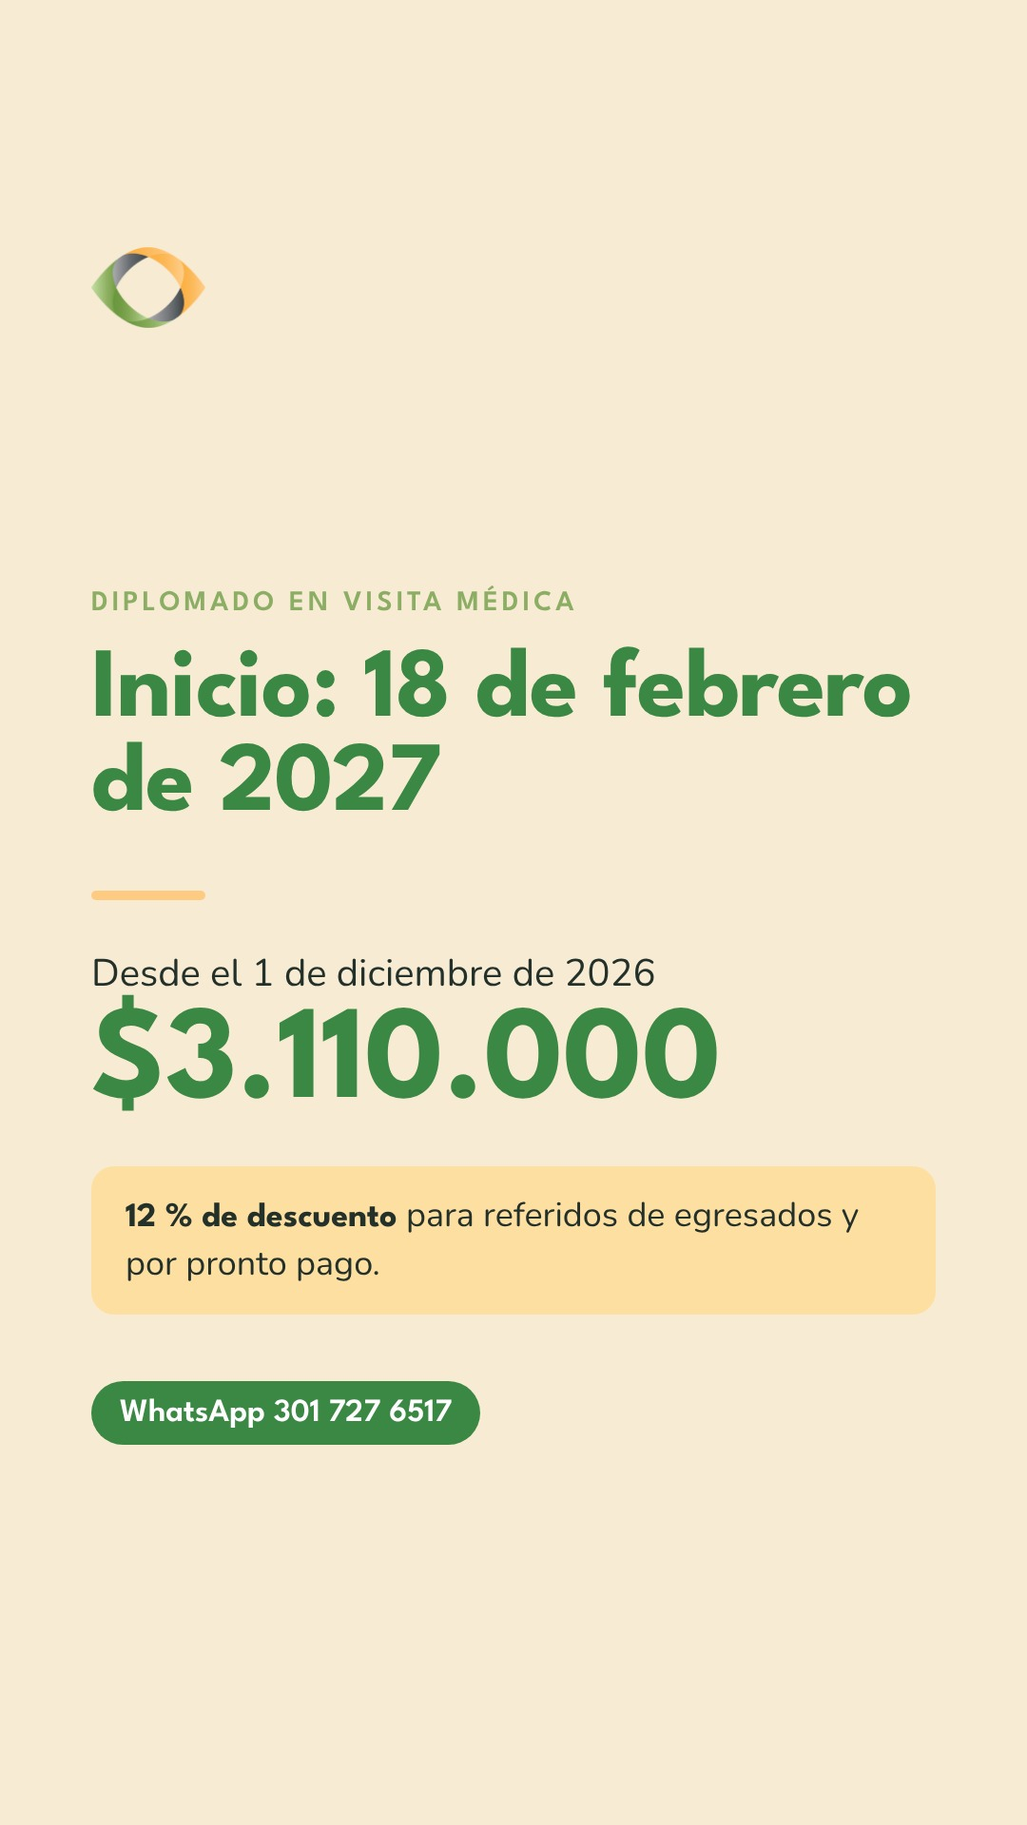
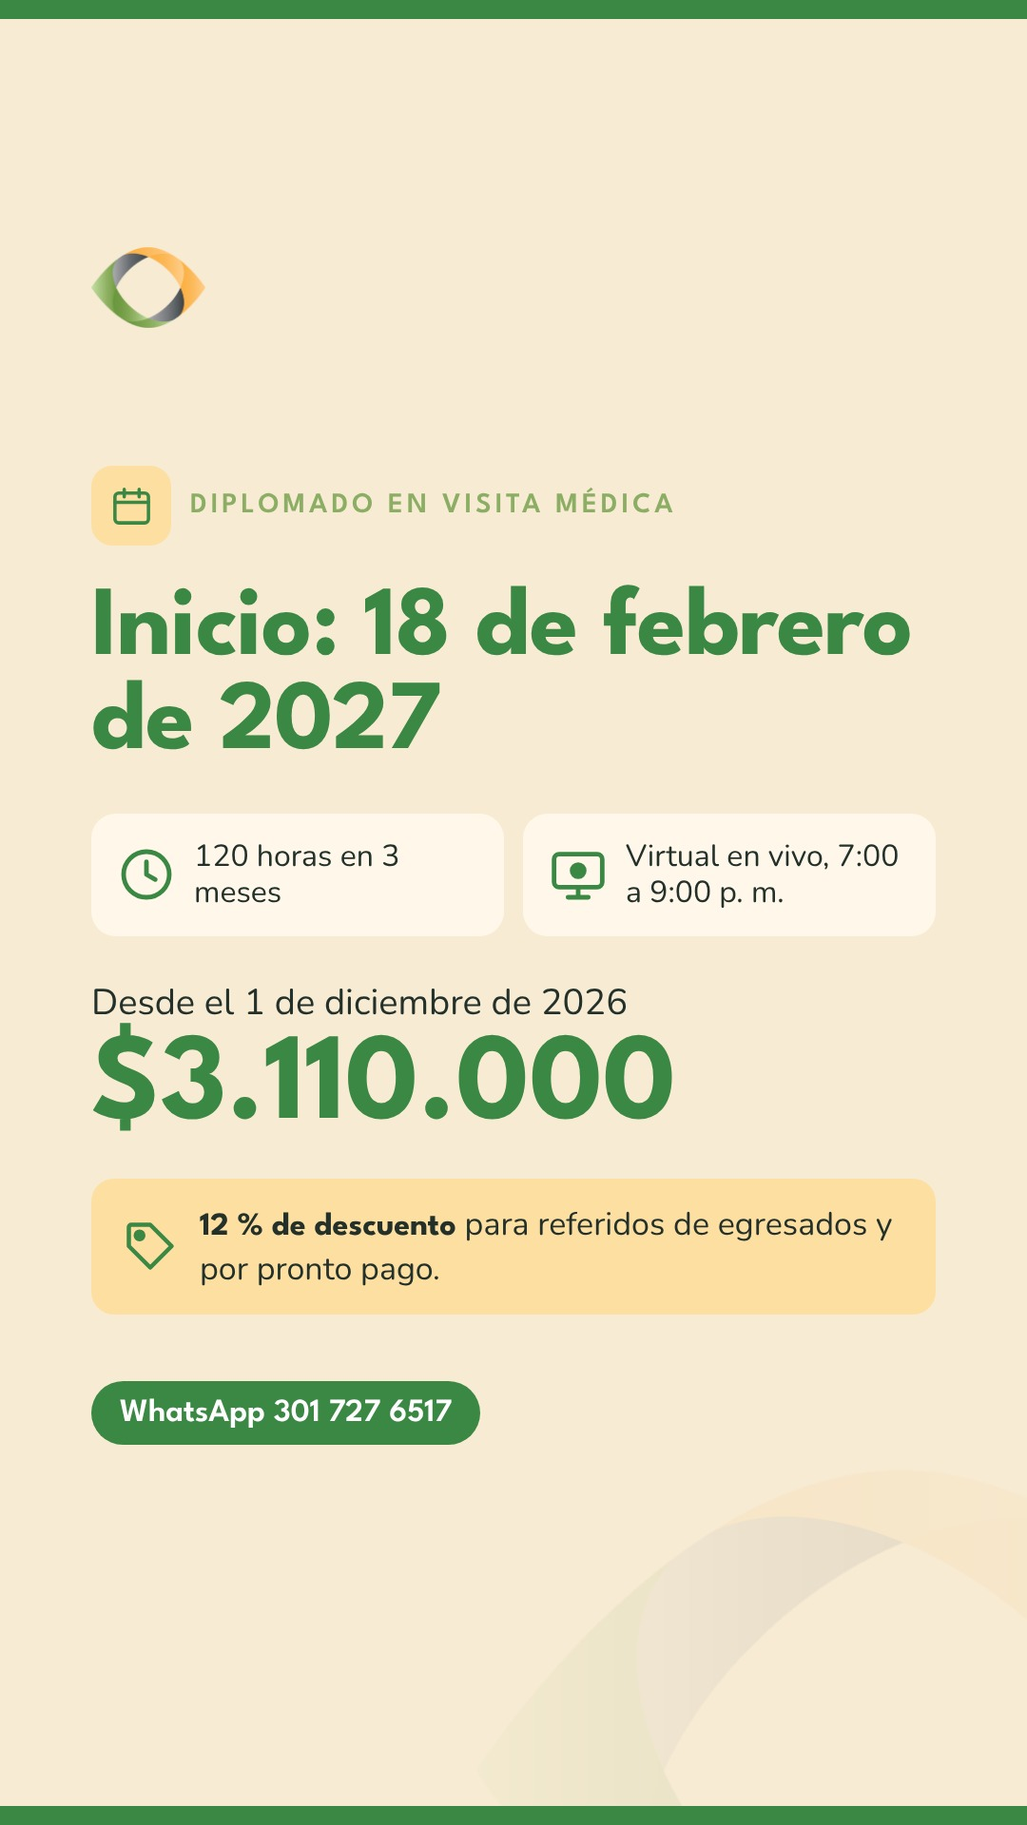
Contraining semana 9: piezas con elementos visuales (íconos, sellos, calendario, barras de precio, marca de agua)
Claude-Session: https://claude.ai/code/session_01BK2hEQrYkRfJt5B3NqMApk

diff --git a/kit/gen_s9_contraining.py b/kit/gen_s9_contraining.py
@@ -75,89 +75,110 @@ pieces["L23"] = info("¿Le sobra plata<br>al final del mes?", "Bienestar financi
     "Joaquín Piña · IP360", "#D4AF37", tsize=80)
 
 # ---------- @contrainingfarma publicaciones (ajuste: las dos del ciclo son de laboratorios) ----------
+# Versión con elementos visuales (íconos, sellos, marca de agua, calendario): kit/visual_ct.py
+from visual_ct import icono, sello, tarjeta, marca_agua, circulo, franja, calendario, precios
+
 # P14 · Laboratorios: outsourcing de fuerzas de ventas · jueves 26, 18:00
-pieces["P14_1"] = ct(f"""<div class="pad">{LOGO_H}
-<div style="margin-top:150px" class="kicker">Para laboratorios</div>
-<h1 style="font-size:116px;margin-top:30px">¿Necesitas una fuerza de ventas en campo?</h1>
+pieces["P14_1"] = ct(f"""{marca_agua(820, -260, -240)}{franja(24)}<div class="pad">{LOGO_H}
+<div style="margin-top:120px;display:flex;gap:22px;align-items:center">{sello("maletin", 96)}<div class="kicker">Para laboratorios</div></div>
+<h1 style="font-size:116px;margin-top:40px">¿Necesitas una fuerza de ventas en campo?</h1>
 <div class="bar" style="margin-top:56px"></div>
 <h2 style="font-size:62px;margin-top:40px">Outsourcing de fuerzas de ventas.</h2>
 {FOOT}</div>""", page="1/3")
-pieces["P14_2"] = ct(f"""<div class="pad">{ISO}
-<h1 style="font-size:92px;margin-top:70px">Lo que hacemos por tu laboratorio</h1>
-<ul class="big" style="margin-top:40px">
-<li><b>Reclutamiento</b> de visitadores médicos.</li>
-<li><b>Entrenamiento a la medida</b> de tu fuerza de ventas.</li>
-<li><b>Seguimiento</b> de la fuerza de ventas.</li>
-</ul>{FOOT}</div>""", page="2/3")
-pieces["P14_3"] = ct(f"""<div class="pad">{ISO}
-<div class="n" style="font-size:240px;line-height:.9;margin-top:90px">+30</div>
-<h2 style="font-size:64px;margin-top:20px">fuerzas de ventas administradas</h2>
+pieces["P14_2"] = ct(f"""{franja(24)}<div class="pad">{ISO}
+<h1 style="font-size:88px;margin-top:50px">Lo que hacemos por tu laboratorio</h1>
+<div style="margin-top:30px">
+{tarjeta("lupa", "Reclutamiento", "de visitadores médicos.")}
+{tarjeta("diana", "Entrenamiento a la medida", "de tu fuerza de ventas.")}
+{tarjeta("grafica", "Seguimiento", "de la fuerza de ventas.")}
+</div>{FOOT}</div>""", page="2/3")
+pieces["P14_3"] = ct(f"""{circulo(560, 150, 330, "var(--peach)")}{marca_agua(700, -240, -220)}<div class="pad">{ISO}
+<div style="margin-top:110px;display:flex;align-items:center;gap:30px">{sello("equipo", 170, "var(--sea)", "#fff")}
+<div class="n" style="font-size:240px;line-height:.9">+30</div></div>
+<h2 style="font-size:64px;margin-top:34px">fuerzas de ventas administradas</h2>
 <div class="bar" style="margin-top:56px"></div>
 <p style="margin-top:40px;font-size:40px">Cuéntanos qué necesita tu equipo.</p>
-<div style="margin-top:auto"><span class="chip">WhatsApp 301 727 6517 · contraining.co</span></div>
+<div style="margin-top:auto;display:flex;gap:18px;align-items:center">{icono("chat", 64)}<span class="chip">WhatsApp 301 727 6517 · contraining.co</span></div>
 </div>""", page="3/3")
 
 # P15 · Laboratorios: enlace con profesionales comerciales de alto nivel · martes 1 de diciembre, 18:00
-pieces["P15_1"] = ct(f"""<div class="pad">{LOGO_H}
-<div style="margin-top:150px" class="kicker">Para laboratorios</div>
-<h1 style="font-size:112px;margin-top:30px">¿Buscas un perfil comercial de alto nivel?</h1>
+pieces["P15_1"] = ct(f"""{marca_agua(820, -260, -240)}{franja(24)}<div class="pad">{LOGO_H}
+<div style="margin-top:120px;display:flex;gap:22px;align-items:center">{sello("lupa", 96)}<div class="kicker">Para laboratorios</div></div>
+<h1 style="font-size:112px;margin-top:40px">¿Buscas un perfil comercial de alto nivel?</h1>
 <div class="bar" style="margin-top:56px"></div>
 <h2 style="font-size:58px;margin-top:40px">El cargo no espera. El perfil correcto tampoco.</h2>
 {FOOT}</div>""", page="1/3")
-pieces["P15_2"] = ct(f"""<div class="pad">{ISO}
-<h1 style="font-size:92px;margin-top:70px">Hacemos el enlace</h1>
-<p style="font-size:50px;line-height:1.3;margin-top:40px">entre <b>profesionales comerciales de alto nivel</b> y <b>compañías farmacéuticas</b>.</p>
-<div class="bar" style="margin-top:56px"></div>
-<p style="font-size:42px;line-height:1.35;margin-top:40px">Y si lo que necesitas es un equipo: <b>reclutamiento de visitadores médicos</b>.</p>
+def nodo(nombre, rotulo):
+    return f"""<div style="display:flex;flex-direction:column;align-items:center;width:300px;text-align:center">{sello(nombre, 190, "#FFF8EA")}
+<div style="font-family:LS;font-weight:700;font-size:38px;color:var(--ink);line-height:1.1;margin-top:20px">{rotulo}</div></div>"""
+pieces["P15_2"] = ct(f"""{franja(24)}<div class="pad">{ISO}
+<h1 style="font-size:92px;margin-top:50px">Hacemos el enlace</h1>
+<div style="display:flex;align-items:flex-start;justify-content:space-between;margin-top:60px">
+{nodo("maletin", "Profesionales comerciales de alto nivel")}
+<div style="margin-top:56px">{sello("enlace", 120, "var(--sea)", "#fff")}</div>
+{nodo("equipo", "Compañías farmacéuticas")}</div>
+<div style="margin-top:56px;background:var(--peach);border-radius:26px;padding:28px 34px;display:flex;gap:26px;align-items:center">{icono("lupa", 64)}
+<p style="font-size:38px;line-height:1.3">Y si lo que necesitas es un equipo: <b style="font-family:LS">reclutamiento de visitadores médicos</b>.</p></div>
 {FOOT}</div>""", page="2/3")
-pieces["P15_3"] = ct(f"""<div class="pad">{ISO}
-<div class="n" style="font-size:200px;line-height:.9;margin-top:90px">+27 años</div>
-<h2 style="font-size:58px;margin-top:20px">formando visitadores médicos en Colombia</h2>
-<p style="margin-top:30px;font-size:42px">Más de 3.000 egresados · 158 promociones</p>
-<div class="bar" style="margin-top:50px"></div>
+def dato(valor, rotulo):
+    return f"""<div style="flex:1;background:#FFF8EA;border-radius:28px;padding:34px 30px;border-top:12px solid var(--apr)">
+<div class="n" style="font-size:96px;line-height:.95">{valor}</div><div style="font-family:LS;font-weight:600;font-size:34px;margin-top:12px;line-height:1.1">{rotulo}</div></div>"""
+pieces["P15_3"] = ct(f"""{marca_agua(700, -240, -220)}<div class="pad">{ISO}
+<h2 style="font-size:60px;margin-top:70px">Formando visitadores médicos en Colombia</h2>
+<div style="display:flex;gap:22px;margin-top:44px">{dato("+27", "años")}{dato("+3.000", "egresados")}{dato("158", "promociones")}</div>
+<div class="bar" style="margin-top:56px"></div>
 <p style="margin-top:40px;font-size:40px">Cuéntanos qué perfil buscas.</p>
-<div style="margin-top:auto"><span class="chip">WhatsApp 301 727 6517 · contraining.co</span></div>
+<div style="margin-top:auto;display:flex;gap:18px;align-items:center">{icono("chat", 64)}<span class="chip">WhatsApp 301 727 6517 · contraining.co</span></div>
 </div>""", page="3/3")
 
 # ---------- @contrainingfarma historias (H51 y H54 llevan voz: ver gen_historias_voz_s9.py) ----------
-PRECIOS = """<div class="bar" style="margin-top:50px"></div>
-<div style="margin-top:50px;font-size:40px">Hasta el 30 de noviembre</div>
-<div class="n" style="font-size:140px;line-height:1">$2.753.000</div>
-<div style="margin-top:30px;font-size:40px">Desde el 1 de diciembre: <b>$3.110.000</b></div>"""
-pieces["H50"] = st(f"""<div style="margin-top:auto">
-<div class="kicker">Diplomado en Visita Médica</div>
-<div style="font-family:LS;font-weight:600;font-size:60px;margin-top:30px">Quedan</div>
-<div class="n" style="font-size:300px;line-height:.9">4 días</div>
-<h2 style="font-size:60px;margin-top:20px">con el precio actual.</h2>
-{PRECIOS}
+NOVDIC = {26: "NOV", 1: "DIC"}
+DIAS = [26, 27, 28, 29, 30, 1]
+def kick(nombre, texto):
+    return f'<div style="display:flex;gap:20px;align-items:center">{sello(nombre, 84)}<div class="kicker">{texto}</div></div>'
+def deco():
+    return marca_agua(900, -320, -260, .08) + franja(20) + franja(20, abajo=True)
+
+pieces["H50"] = st(f"""{deco()}<div style="margin-top:auto">
+{kick("calendario", "Diplomado en Visita Médica")}
+<h1 style="font-size:130px;margin-top:40px">Quedan 4 días</h1>
+<h2 style="font-size:56px;margin-top:16px">con el precio actual.</h2>
+{calendario(DIAS, 30, 26, NOVDIC)}
+{precios()}
 {CHIP}</div>{END}""")
-pieces["H52"] = st(f"""<div style="margin-top:auto">
-<div class="kicker">Diplomado en Visita Médica</div>
-<h1 style="font-size:116px;margin-top:30px">¿Quién enseña?</h1>
-<div class="bar" style="margin-top:60px"></div>
-<h2 style="font-size:66px;margin-top:50px">Docentes con experiencia en la industria farmacéutica.</h2>
-<p style="margin-top:40px;font-size:42px">Clases virtuales en vivo. Inicio: 18 de febrero de 2027.</p>
+pieces["H52"] = st(f"""{deco()}<div style="margin-top:auto">
+{kick("docente", "Diplomado en Visita Médica")}
+<h1 style="font-size:116px;margin-top:40px">¿Quién enseña?</h1>
+<div class="bar" style="margin-top:50px"></div>
+<h2 style="font-size:64px;margin-top:40px">Docentes con experiencia en la industria farmacéutica.</h2>
+<div style="display:flex;gap:20px;margin-top:50px">
+<div style="flex:1;background:#FFF8EA;border-radius:26px;padding:28px;display:flex;gap:20px;align-items:center">{icono("pantalla", 70)}<span style="font-size:34px;line-height:1.2">Clases virtuales en vivo</span></div>
+<div style="flex:1;background:#FFF8EA;border-radius:26px;padding:28px;display:flex;gap:20px;align-items:center">{icono("calendario", 70)}<span style="font-size:34px;line-height:1.2">Inicio: 18 de febrero de 2027</span></div></div>
 {CHIP}</div>{END}""")
-pieces["H53"] = st(f"""<div style="margin-top:auto">
-<div class="kicker">Diplomado en Visita Médica</div>
-<h1 style="font-size:120px;margin-top:30px">Mañana es el último día</h1>
-<h2 style="font-size:60px;margin-top:20px">con el precio actual.</h2>
-{PRECIOS}
+pieces["H53"] = st(f"""{deco()}<div style="margin-top:auto">
+{kick("reloj", "Diplomado en Visita Médica")}
+<h1 style="font-size:124px;margin-top:40px">Mañana es el último día</h1>
+<h2 style="font-size:56px;margin-top:16px">con el precio actual.</h2>
+{calendario(DIAS, 30, 29, NOVDIC)}
+{precios()}
 {CHIP}</div>{END}""")
-pieces["H55"] = st(f"""<div style="margin-top:auto">
-<div class="kicker">Para laboratorios</div>
-<h1 style="font-size:104px;margin-top:30px">¿Buscas un perfil comercial de alto nivel?</h1>
-<div class="bar" style="margin-top:60px"></div>
-<h2 style="font-size:60px;margin-top:50px">Enlazamos profesionales comerciales de alto nivel con compañías farmacéuticas.</h2>
+pieces["H55"] = st(f"""{deco()}<div style="margin-top:auto">
+{kick("maletin", "Para laboratorios")}
+<h1 style="font-size:104px;margin-top:40px">¿Buscas un perfil comercial de alto nivel?</h1>
+<div style="display:flex;align-items:center;gap:26px;margin-top:60px">{sello("maletin", 150, "#FFF8EA")}<div style="flex:1;height:8px;background:var(--apr);border-radius:4px"></div>
+{sello("enlace", 120, "var(--sea)", "#fff")}<div style="flex:1;height:8px;background:var(--apr);border-radius:4px"></div>{sello("equipo", 150, "#FFF8EA")}</div>
+<h2 style="font-size:56px;margin-top:50px">Enlazamos profesionales comerciales de alto nivel con compañías farmacéuticas.</h2>
 {CHIP}</div>{END}""")
-pieces["H56"] = st(f"""<div style="margin-top:auto">
-<div class="kicker">Diplomado en Visita Médica</div>
-<h1 style="font-size:104px;margin-top:30px">Inicio: 18 de febrero de 2027</h1>
-<div class="bar" style="margin-top:60px"></div>
-<div style="margin-top:50px;font-size:40px">Desde el 1 de diciembre de 2026</div>
-<div class="n" style="font-size:140px;line-height:1">$3.110.000</div>
-<div style="margin-top:36px;background:var(--peach);padding:28px 36px;border-radius:24px;font-size:36px;line-height:1.35">
-<b style="font-family:LS">12 % de descuento</b> para referidos de egresados y por pronto pago.</div>
+pieces["H56"] = st(f"""{deco()}<div style="margin-top:auto">
+{kick("calendario", "Diplomado en Visita Médica")}
+<h1 style="font-size:104px;margin-top:40px">Inicio: 18 de febrero de 2027</h1>
+<div style="display:flex;gap:20px;margin-top:44px">
+<div style="flex:1;background:#FFF8EA;border-radius:26px;padding:26px;display:flex;gap:18px;align-items:center">{icono("reloj", 64)}<span style="font-size:32px;line-height:1.2">120 horas en 3 meses</span></div>
+<div style="flex:1;background:#FFF8EA;border-radius:26px;padding:26px;display:flex;gap:18px;align-items:center">{icono("pantalla", 64)}<span style="font-size:32px;line-height:1.2">Virtual en vivo, 7:00 a 9:00 p. m.</span></div></div>
+<div style="margin-top:44px;font-size:38px">Desde el 1 de diciembre de 2026</div>
+<div class="n" style="font-size:130px;line-height:1">$3.110.000</div>
+<div style="margin-top:30px;background:var(--peach);padding:26px 32px;border-radius:24px;display:flex;gap:22px;align-items:center">{icono("etiqueta", 60)}
+<span style="font-size:34px;line-height:1.3"><b style="font-family:LS">12 % de descuento</b> para referidos de egresados y por pronto pago.</span></div>
 {CHIP}</div>{END}""")
 
 if __name__ == "__main__":

diff --git a/kit/visual_ct.py b/kit/visual_ct.py
@@ -1,0 +1,73 @@
+"""Elementos visuales para @contrainingfarma (desde la semana 9).
+Íconos de línea, sellos y gráficos simples con la paleta del kit (Sea Green, Apricot, Champagne, Peach, Olive).
+Sin degradados ni fotos. Se usan dentro de ct() y st() de gen_contraining_personal."""
+from gen_contraining_personal import A
+
+_P = {  # trazos en una cuadrícula de 24 x 24
+    "equipo": '<circle cx="9" cy="8" r="3.2"/><path d="M3 20c0-3.6 2.7-6 6-6s6 2.4 6 6"/><circle cx="17" cy="9" r="2.6"/><path d="M15.5 14.3c3 .1 5.5 2.2 5.5 5.7"/>',
+    "lupa": '<circle cx="10.5" cy="10.5" r="6.5"/><path d="M15.5 15.5 21 21"/>',
+    "diana": '<circle cx="12" cy="12" r="9"/><circle cx="12" cy="12" r="5.5"/><circle cx="12" cy="12" r="2" fill="currentColor"/>',
+    "grafica": '<path d="M3 3v18h18"/><path d="M7 15l4-4 3 3 6-7"/><path d="M16 7h4v4"/>',
+    "enlace": '<path d="M10 14a4.5 4.5 0 0 0 6.4 0l3-3a4.5 4.5 0 0 0-6.4-6.4l-1.2 1.2"/><path d="M14 10a4.5 4.5 0 0 0-6.4 0l-3 3a4.5 4.5 0 0 0 6.4 6.4l1.2-1.2"/>',
+    "calendario": '<rect x="3" y="5" width="18" height="16" rx="2"/><path d="M3 10h18M8 3v4M16 3v4"/>',
+    "reloj": '<circle cx="12" cy="12" r="9"/><path d="M12 7v5l3.5 2"/>',
+    "pantalla": '<rect x="2.5" y="4" width="19" height="13" rx="2"/><path d="M8 21h8M12 17v4"/><circle cx="12" cy="10.5" r="2.4" fill="currentColor"/>',
+    "docente": '<rect x="9" y="3" width="12" height="9" rx="1"/><circle cx="6" cy="9" r="2.6"/><path d="M1.5 21c0-3.4 2-5.8 4.5-5.8S10.5 17.6 10.5 21"/><path d="M8.5 15 13 12"/>',
+    "maletin": '<rect x="3" y="7" width="18" height="13" rx="2"/><path d="M9 7V5a1.5 1.5 0 0 1 1.5-1.5h3A1.5 1.5 0 0 1 15 5v2M3 13h18"/>',
+    "etiqueta": '<path d="M3 12V4a1 1 0 0 1 1-1h8l9 9-9 9z"/><circle cx="7.5" cy="7.5" r="1.6" fill="currentColor"/>',
+    "chat": '<path d="M4 18.5V6a2 2 0 0 1 2-2h12a2 2 0 0 1 2 2v8a2 2 0 0 1-2 2H8z"/><path d="M8 9h8M8 12.5h5"/>',
+}
+
+def icono(nombre, size=72, color="var(--sea)", grosor=1.8):
+    return (f'<svg viewBox="0 0 24 24" width="{size}" height="{size}" fill="none" stroke="currentColor" '
+            f'stroke-width="{grosor}" stroke-linecap="round" stroke-linejoin="round" style="color:{color};flex:none">{_P[nombre]}</svg>')
+
+def sello(nombre, size=150, fondo="var(--peach)", color="var(--sea)"):
+    """Ícono dentro de un cuadrado redondeado."""
+    return (f'<div style="width:{size}px;height:{size}px;border-radius:{size*.26:.0f}px;background:{fondo};display:flex;'
+            f'align-items:center;justify-content:center;flex:none">{icono(nombre, int(size*.56), color)}</div>')
+
+def tarjeta(nombre, titulo, texto, fondo="#FFF8EA"):
+    return f"""<div style="display:flex;gap:34px;align-items:center;background:{fondo};border-radius:30px;padding:30px 34px;margin-top:24px">
+{sello(nombre, 120)}<div><div style="font-family:LS;font-weight:700;font-size:44px;color:var(--sea);line-height:1.05">{titulo}</div>
+<div style="font-size:32px;line-height:1.3;margin-top:6px">{texto}</div></div></div>"""
+
+def marca_agua(size=760, right=-220, bottom=-200, opacidad=.10):
+    """Isotipo grande recortado en una esquina (opacidad plana, sin degradado)."""
+    return (f'<img src="{A}/iso_ct.png" style="position:absolute;width:{size}px;right:{right}px;bottom:{bottom}px;'
+            f'opacity:{opacidad};pointer-events:none;z-index:-1">')
+
+def circulo(size, top, left, color="var(--apr)", opacidad=1):
+    return (f'<div style="position:absolute;width:{size}px;height:{size}px;border-radius:50%;background:{color};'
+            f'top:{top}px;left:{left}px;opacity:{opacidad};z-index:-1"></div>')
+
+def franja(alto=24, color="var(--sea)", abajo=False):
+    lado = "bottom:0" if abajo else "top:0"
+    return f'<div style="position:absolute;left:0;right:0;{lado};height:{alto}px;background:{color};z-index:-1"></div>'
+
+def calendario(dias, marcado, hoy, mes_de=None, ancho=888):
+    """Tira de días. `marcado` = último día del precio (casilla verde); `hoy` = casilla con borde.
+    `mes_de` = {día: 'NOV'|'DIC'} para rotular el cambio de mes."""
+    w = (ancho - 14 * (len(dias) - 1)) / len(dias)
+    cel = []
+    for d in dias:
+        if d == marcado:
+            est = "background:var(--sea);color:#fff"
+        elif d == hoy:
+            est = "background:#fff;color:var(--sea);outline:6px solid var(--apr);outline-offset:-6px"
+        else:
+            est = "background:#FFF8EA;color:var(--ink)"
+        mes = (mes_de or {}).get(d, "")
+        cel.append(f'<div style="width:{w:.0f}px;height:150px;border-radius:22px;{est};display:flex;flex-direction:column;'
+                   f'align-items:center;justify-content:center"><div style="font-family:LS;font-weight:600;font-size:22px;letter-spacing:2px;opacity:.75">{mes}</div>'
+                   f'<div style="font-family:LS;font-weight:700;font-size:64px;line-height:1">{d}</div></div>')
+    return f'<div style="display:flex;gap:14px;margin-top:40px">{"".join(cel)}</div>'
+
+def precios(antes="$2.753.000", despues="$3.110.000", rot_antes="Hasta el 30 de noviembre", rot_despues="Desde el 1 de diciembre"):
+    """Dos barras proporcionales al precio (2.753.000 / 3.110.000 = 88,5 %)."""
+    pct = 2753000 / 3110000 * 100
+    return f"""<div style="margin-top:44px">
+<div style="display:flex;justify-content:space-between;align-items:baseline"><span style="font-size:34px">{rot_antes}</span><span class="n" style="font-size:72px">{antes}</span></div>
+<div style="height:34px;border-radius:17px;background:#E9DCC0;margin-top:10px"><div style="height:34px;width:{pct:.1f}%;border-radius:17px;background:var(--sea)"></div></div>
+<div style="display:flex;justify-content:space-between;align-items:baseline;margin-top:30px"><span style="font-size:34px">{rot_despues}</span><span style="font-family:LS;font-weight:700;font-size:56px;color:var(--ash)">{despues}</span></div>
+<div style="height:34px;border-radius:17px;background:var(--ash);margin-top:10px"></div></div>"""

diff --git a/kit/gen_historias_voz_s9.py b/kit/gen_historias_voz_s9.py
@@ -10,23 +10,31 @@ CHIP = '<div style="margin-top:70px"><span class="chip">WhatsApp 301 727 6517</s
 
 pieces = {}
 
+from visual_ct import icono, sello, marca_agua, franja, calendario, precios
+def kick(nombre, texto):
+    return f'<div style="display:flex;gap:20px;align-items:center">{sello(nombre, 84)}<div class="kicker">{texto}</div></div>'
+def deco():
+    return marca_agua(900, -320, -260, .08) + franja(20) + franja(20, abajo=True)
+
 # Vie 27 · laboratorios: outsourcing de fuerzas de ventas (voz)
-pieces["H51"] = st(f"""<div style="margin-top:auto">
-<div class="kicker">Para laboratorios</div>
-<h1 style="font-size:104px;margin-top:30px">¿Tu laboratorio necesita una fuerza de ventas?</h1>
-<div class="bar" style="margin-top:60px"></div>
-<h2 style="font-size:60px;margin-top:50px">Outsourcing de fuerzas de ventas: reclutamiento, entrenamiento a la medida y seguimiento.</h2>
+def paso(nombre, rotulo):
+    return f"""<div style="flex:1;background:#FFF8EA;border-radius:26px;padding:28px 16px;display:flex;flex-direction:column;align-items:center;gap:16px">
+{sello(nombre, 110)}<span style="font-family:LS;font-weight:700;font-size:32px;text-align:center;line-height:1.1">{rotulo}</span></div>"""
+pieces["H51"] = st(f"""{deco()}<div style="margin-top:auto">
+{kick("maletin", "Para laboratorios")}
+<h1 style="font-size:104px;margin-top:40px">¿Tu laboratorio necesita una fuerza de ventas?</h1>
+<h2 style="font-size:54px;margin-top:40px">Outsourcing de fuerzas de ventas:</h2>
+<div style="display:flex;gap:18px;margin-top:30px">{paso("lupa", "Reclutamiento")}{paso("diana", "Entrenamiento a la medida")}{paso("grafica", "Seguimiento")}</div>
 <p style="margin-top:40px;font-size:42px">Más de 30 fuerzas de ventas administradas.</p>
 {CHIP}</div>{END}""")
 
 # Lun 30 · diplomado: último día del precio actual (voz, con el número)
-pieces["H54"] = st(f"""<div style="margin-top:auto"><div class="kicker">Diplomado en Visita Médica</div>
-<h1 style="font-size:130px;margin-top:30px">Hoy es el último día</h1>
-<h2 style="font-size:60px;margin-top:20px">con el precio actual.</h2>
-<div class="bar" style="margin-top:50px"></div>
-<div style="margin-top:50px;font-size:40px">Hasta hoy, 30 de noviembre</div>
-<div class="n" style="font-size:140px;line-height:1">$2.753.000</div>
-<div style="margin-top:30px;font-size:40px">Desde mañana: <b>$3.110.000</b></div>
+pieces["H54"] = st(f"""{deco()}<div style="margin-top:auto">
+{kick("reloj", "Diplomado en Visita Médica")}
+<h1 style="font-size:118px;margin-top:40px">Hoy es el<br>último día</h1>
+<h2 style="font-size:56px;margin-top:16px">con el precio actual.</h2>
+{calendario([26, 27, 28, 29, 30, 1], 30, 30, {26: "NOV", 1: "DIC"})}
+{precios(rot_antes="Hasta hoy, 30 de noviembre", rot_despues="Desde mañana")}
 {CHIP}</div>{END}""")
 
 if __name__ == "__main__":

diff --git a/kit/gen_contraining_personal.py b/kit/gen_contraining_personal.py
@@ -40,7 +40,7 @@ li b{font-family:LS;font-weight:700}
 
 def ct(body, w=1080, h=1350, page=""):
     pg = f'<div class="page">{page}</div>' if page else ""
-    return f"<html><head><style>:root{{--w:{w}px;--h:{h}px}}{FONTS}{CT}</style></head><body>{pg}{body}</body></html>"
+    return f"<html><head><meta charset=\"utf-8\"><style>:root{{--w:{w}px;--h:{h}px}}{FONTS}{CT}</style></head><body>{pg}{body}</body></html>"
 
 FOOT = f'<div class="foot"><span>WhatsApp 301 727 6517 · contraining.co</span></div>'
 LOGO_H = f'<img src="{A}/logo_ct_h.png" style="height:64px;align-self:flex-start">'
